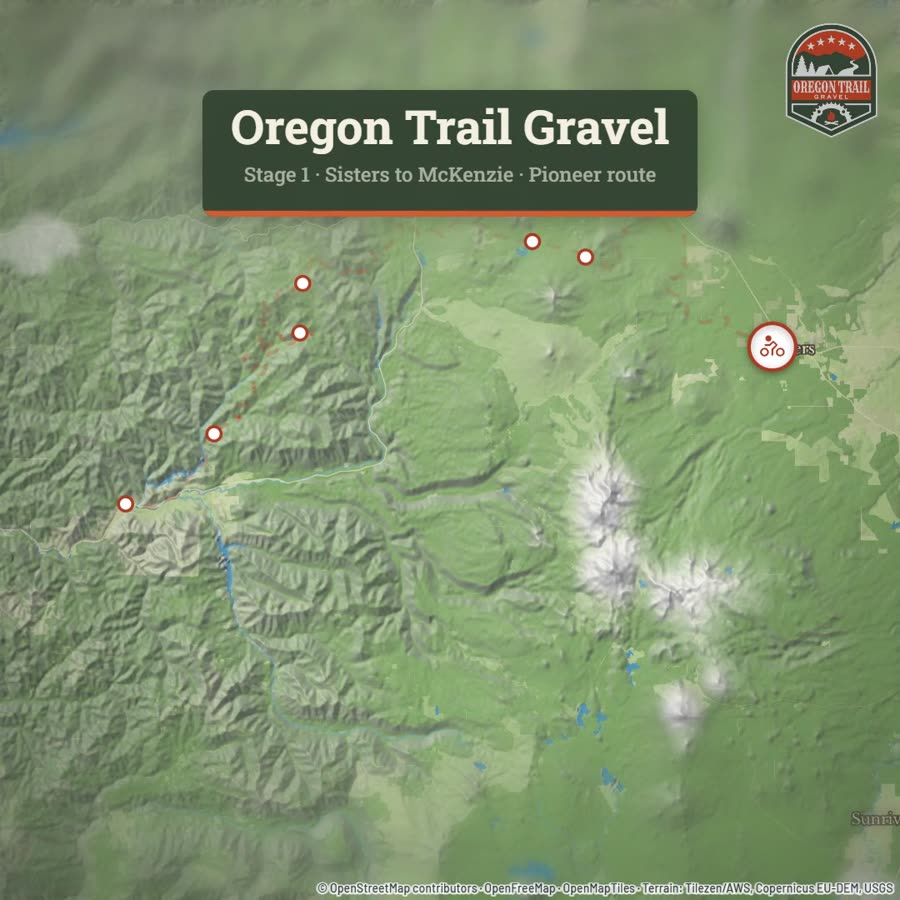
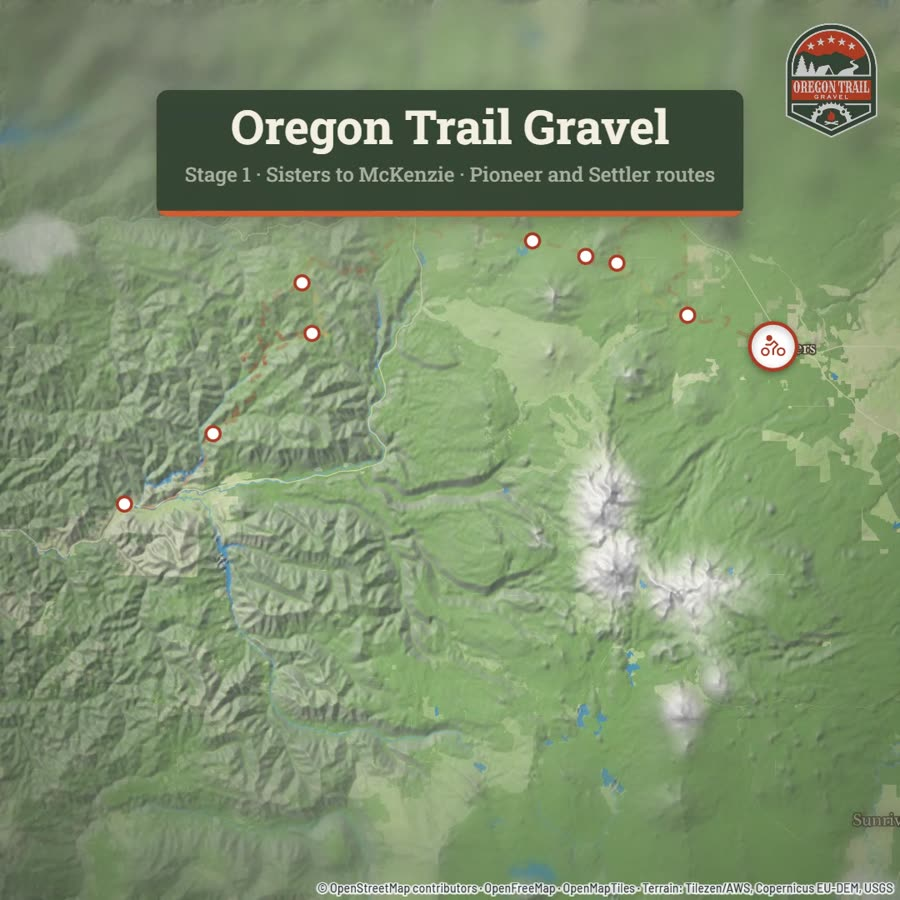
Oregon Trail Gravel sample: Pioneer and Settler routes on one map
New -v2 videos, posters and page wording.

Claude-Session: https://claude.ai/code/session_01GqznV9SuKXcEJhWVabwNmm

diff --git a/for/oregon-trail-gravel/index.html b/for/oregon-trail-gravel/index.html
@@ -21,17 +21,17 @@ window.SAMPLE = {
   company: "Oregon Trail Gravel",
   firstName: "Colleen",
   tour: "Stage 1 of Oregon Trail Gravel",
-  intro: "Here's Stage 1 of the 2026 Pioneer route, Sisters to McKenzie: up through the Santiam Sandbox on the historic wagon road, over the last big climb, down to the finish line and on to camp by the McKenzie River. It follows your own Ride with GPS course, with the Cascades in 3D and an elevation profile, in your colors and badge.",
+  intro: "Here's Stage 1 of the 2026 route, Sisters to McKenzie, with the Pioneer and Settler routes on one map: Pioneers in your rust red, Settlers in gold, each with its own rider where the routes split. Up through the Santiam Sandbox on the historic wagon road, over the Pioneers' last big climb, down to the finish line and on to camp by the McKenzie River. It follows your own Ride with GPS courses, with the Cascades in 3D and an elevation profile, in your colors and badge.",
   accent: "#B54420",                       // the event's rust red
   logo: "logo.png",                        // the Oregon Trail Gravel badge
   media: "https://media.iterramaps.com/samples/oregon-trail-gravel/",
   videos: [
-    { src: "wide.mp4",     web: "wide.web.mp4",     aspect: "16:9", label: "Widescreen, for your website, YouTube and rider emails",  poster: "poster.jpg",          file: "oregon-trail-gravel-stage-1-16x9.mp4" },
-    { src: "vertical.mp4", web: "vertical.web.mp4", aspect: "9:16", label: "Vertical, for Instagram, Reels and Stories",            poster: "poster-vertical.jpg", file: "oregon-trail-gravel-stage-1-9x16.mp4" },
-    { src: "square.mp4",   web: "square.web.mp4",   aspect: "1:1",  label: "Square, for Facebook and email newsletters",            poster: "poster-square.jpg",   file: "oregon-trail-gravel-stage-1-1x1.mp4" },
+    { src: "wide-v2.mp4",     web: "wide-v2.web.mp4",     aspect: "16:9", label: "Widescreen, for your website, YouTube and rider emails",  poster: "poster.jpg",          file: "oregon-trail-gravel-stage-1-16x9.mp4" },
+    { src: "vertical-v2.mp4", web: "vertical-v2.web.mp4", aspect: "9:16", label: "Vertical, for Instagram, Reels and Stories",            poster: "poster-vertical.jpg", file: "oregon-trail-gravel-stage-1-9x16.mp4" },
+    { src: "square-v2.mp4",   web: "square-v2.web.mp4",   aspect: "1:1",  label: "Square, for Facebook and email newsletters",            poster: "poster-square.jpg",   file: "oregon-trail-gravel-stage-1-1x1.mp4" },
   ],
   mode: "feedback",
-  note: "This is one stage of five. The whole week can be made the same way, as one film or a clip for each stage, with the Settler route alongside and your sponsors on the end card. If you'd like that for 2027, let us know and we'll come back to you with a price and timings. If it isn't for you, a quick word on why would still help us. The video is yours to keep either way.",
+  note: "This is one stage of five. The whole week can be made the same way, as one film or a clip for each stage, with both routes on every map and your sponsors on the end card. If you'd like that for 2027, let us know and we'll come back to you with a price and timings. If it isn't for you, a quick word on why would still help us. The video is yours to keep either way.",
   offer: "",
   from: "Patrick",
   email: "hello@iterramaps.com",
